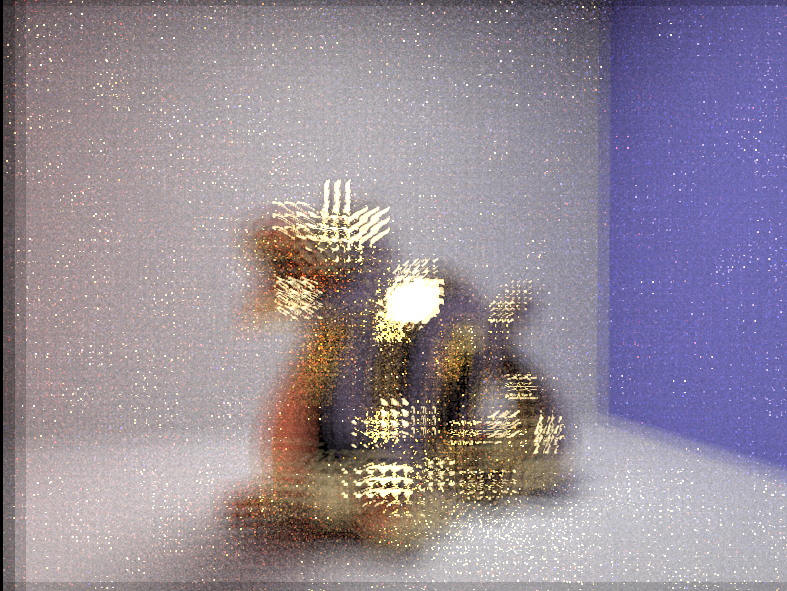
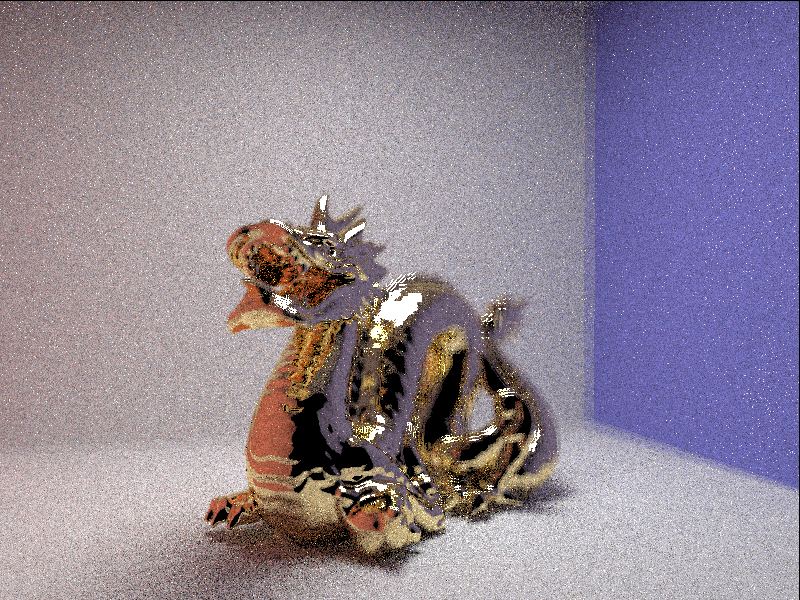
report refocusing

diff --git a/report.html b/report.html
@@ -12,6 +12,23 @@
     <title>Final Project Report | CS 184</title>
     <meta http-equiv="content-type" content="text/html; charset=utf-8"/>
     <link rel="stylesheet" type="text/css" href="style.css" media="screen"/>
+    <script type="text/javascript"
+            src="https://cdnjs.cloudflare.com/ajax/libs/mathjax/2.7.2/MathJax.js?config=TeX-AMS-MML_HTMLorMML">
+    </script>
+    <script type="text/x-mathjax-config">
+  MathJax.Hub.Config({
+    extensions: ["tex2jax.js"],
+    jax: ["input/TeX", "output/HTML-CSS"],
+    tex2jax: {
+      inlineMath: [ ['$','$'], ["\\(","\\)"] ],
+      displayMath: [ ['$$','$$'], ["\\[","\\]"] ],
+      processEscapes: true
+    },
+    "HTML-CSS": { availableFonts: ["TeX"] }
+  });
+</script>
+    <script type="text/javascript" src="path-to-MathJax/MathJax.js">
+    </script>
 </head>
 <body>
 <br/>
@@ -61,7 +78,49 @@
     </div>
 
     <h4>2. Refocusing</h4>
-
+    <h4>2.1 Digital refocusing</h4>
+    <p>
+        <div align="center">
+            <img src="images/refocus.png" width="400px"/>
+            <figcaption align="middle">Fig 1</figcaption>
+        </div>
+        With the information of 4D light field, we can refocus images without doing ray tracing again. Given light field L(x,y,u,v), the irradiance on position (x,y) can be
+        expressed as an integral:
+        $$E(x,y) = \frac{1}{F^2}\int \int L(x,y,u,v)dudv$$
+        $F$ is the distance between sensor plane and lens plane.
+        The method to refocus is to change the separation between sensor plane and lens plane. As is depicted in Fig 1, change the separation from $F$ to $F'$ and the new light
+        field between lens plane and new film plane can be expressed as:
+        $$L'(x',y',u,v)=L(u+\frac{x'-u}{\alpha},v+\frac{y'-v}{\alpha}, u, v)$$
+        $\alpha$ is $\frac{F'}{F}$. Therefore, for a position $(x',y')$ on new film plane, the irradiance can be expressed as:
+        $$E'(x',y') = \frac{1}{\alpha^2F^2}\int\int L(u(1-\frac{1}{\alpha})+\frac{x'}{\alpha},
+            v(1-\frac{1}{\alpha})+\frac{y'}{\alpha},u,v)$$
+        when raytracing, we take $7*7$ samples on the lens for each pixel. To compute the refocus image, use the equation
+        derived above and bilinear interpolation to compute irradiance
+        at position $(x',y')$.
+    </p>
+    <h4>2.2 Anti-aliasing</h4>
+    <p>
+        Computed images will show step-edge aliasing in out of focus area which is caused
+        by low sampling rate on lens. When the sampling rate is low,
+        the shift in neighbouring subaperture images will larger than one pixel, causing step-edge artifacts.
+        To anti-alias, we super sample the lens plane
+        so that the images show less aliasing.
+    </p>
+    <h4>2.3 Depth estimation</h4>
+    <p>
+        For a better user experience, we try to allow users click on the
+        image and obtain an image focusing on the selected point. To implement
+        this, we have to estimate the depth of each position so that we know
+        which focal length to apply when refocusing. The main idea is that if
+        one position is out of focus, rays coming from different direction to
+        this position will have a large variance. $\sigma_d(x,y)$ denotes variance of rays
+        on position $(x,y)$ when focal plane is of depth $d$. The depth at each position
+        (x,y) can be estimated as :
+        $$depth(x,y)=argmax_d \sigma_d(x,y)$$
+        We pre-processing light field to compute refocusing images for different focal plane and
+        estimate depth for each position. To improve correctness of estimation, use a bilateral filter on $depth(x,y)$ to
+        reduce noise.
+    </p>
     <h4>3. Depth of field adjustment</h4>
 
     <p>
